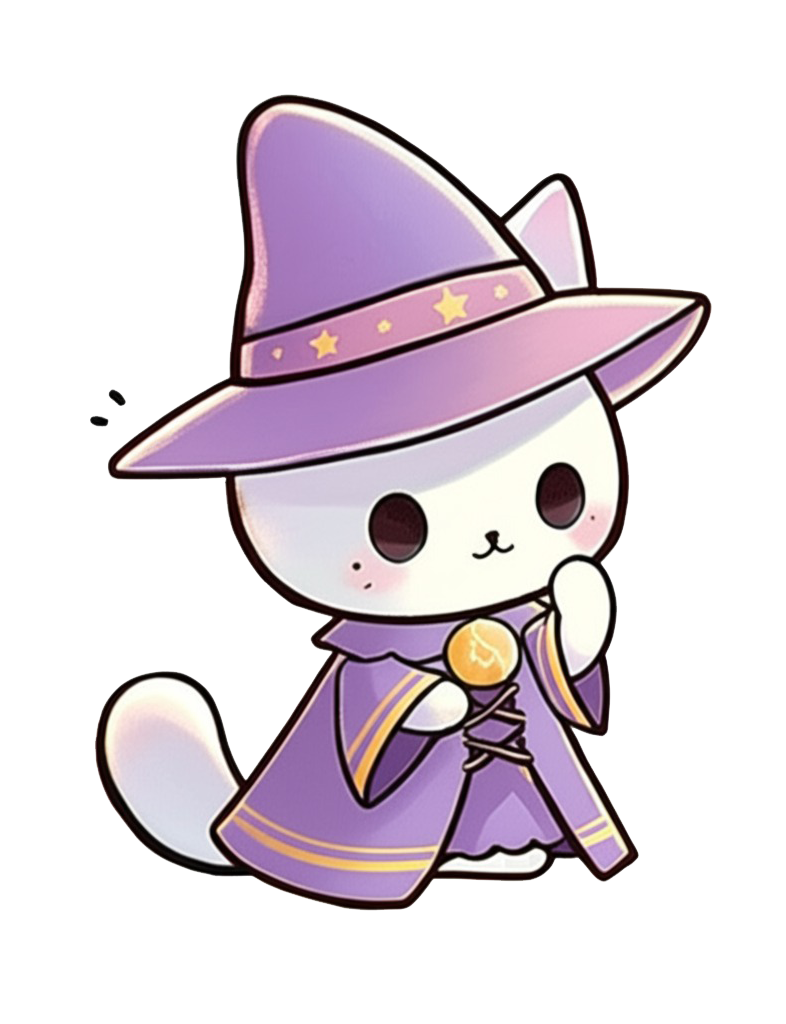
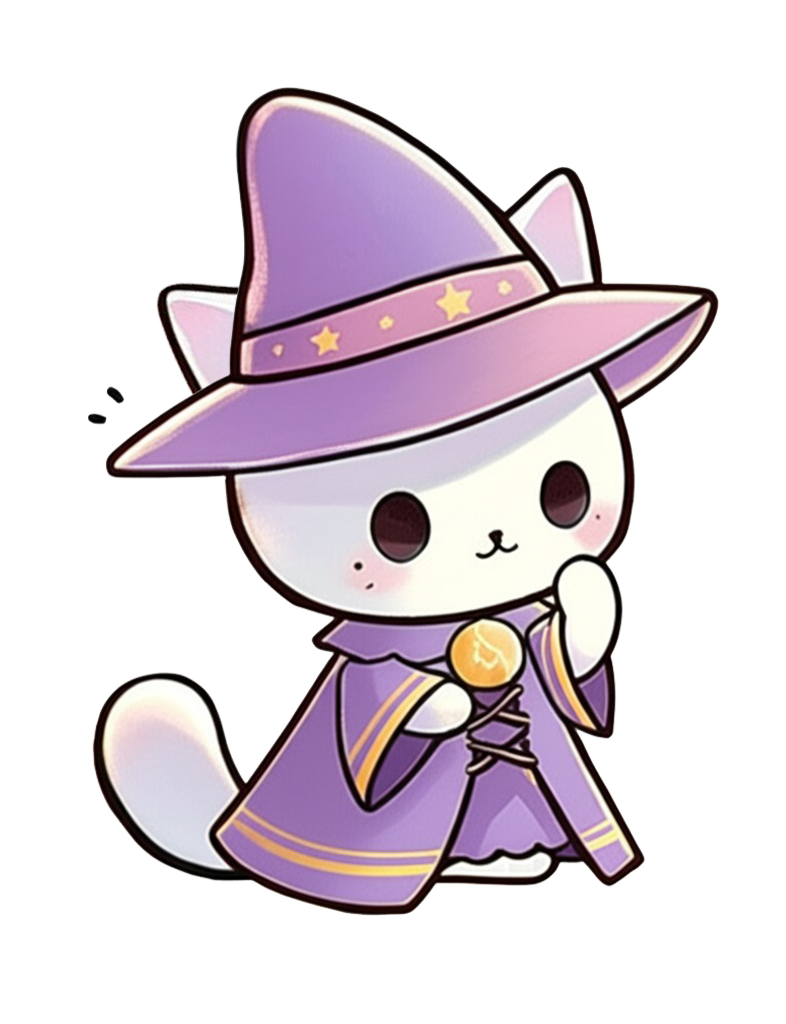
고양이 귀

diff --git a/app/(main)/talisman-gallery/page.tsx b/app/(main)/talisman-gallery/page.tsx
@@ -185,32 +185,14 @@ export default function TalismanGalleryPage() {
           transition={{ duration: 0.5 }}
         >
           {/* 설명 섹션 - 왼쪽 정렬로 변경 */}
-          <motion.section variants={itemVariants} className={`mb-6`}>
-            <div className="flex items-start">
-              <span
-                className={`text-xl mr-3 ${
-                  darkMode ? "text-purple-400" : "text-purple-600"
-                }`}
-              >
-                ✨
-              </span>
-              <div>
-                <h3
-                  className={`text-lg font-semibold ${
-                    darkMode ? "text-white" : "text-gray-800"
-                  } mb-2 text-left`}
-                >
-                  {t("talisman.collectionTitle")}
-                </h3>
-                <p
-                  className={`text-sm ${
-                    darkMode ? "text-gray-300" : "text-gray-600"
-                  } text-left`}
-                >
-                  {t("talisman.collectionDescription")}
-                </p>
-              </div>
-            </div>
+          <motion.section variants={itemVariants} className={`mb-2`}>
+            <p
+              className={`text-xs ${
+                darkMode ? "text-gray-300" : "text-gray-600"
+              } text-center`}
+            >
+              {t("talisman.collectionDescription")}
+            </p>
           </motion.section>
 
           {/* 본문 섹션 */}

diff --git a/app/(main)/profile/edit/page.tsx b/app/(main)/profile/edit/page.tsx
@@ -332,7 +332,7 @@ export default function ProfileEditPage() {
   }
 
   return (
-    <div className="min-h-screen bg-gradient-to-b from-[#EAE1F4] to-[#F9F9F9] pb-16">
+    <div className="min-h-screen pb-16">
       {/* 헤더 */}
       <PageHeader
         title={t("pageTitle")}
@@ -340,7 +340,7 @@ export default function ProfileEditPage() {
         className="bg-white shadow-md relative z-10"
       />
 
-      <div className="container mx-auto max-w-screen-md">
+      <div className="container mx-auto max-w-screen-md bg-white">
         <div className="p-4">
           {message && (
             <div className="mb-6 p-4 bg-green-50 text-green-800 rounded-lg border-l-4 border-green-500 flex items-center">

diff --git a/app/(main)/layout.tsx b/app/(main)/layout.tsx
@@ -70,7 +70,8 @@ export default function MainLayout({
 
   return (
     <TalismanProvider>
-      <div className="flex flex-col h-screen bg-gradient-to-b from-[#EAE1F4] to-[#F9F9F9] pb-16">
+      <div className="flex flex-col h-screen pb-16">
+        <div className="absolute top-0 left-0 h-50 w-full bg-gradient-to-b from-[#e6d0ff] to-[#F9F9F9] "></div>
         <main className="flex-grow relative z-1">{children}</main>
 
         {isProfileComplete && (

diff --git a/app/(main)/fortune/page.tsx b/app/(main)/fortune/page.tsx
@@ -613,7 +613,7 @@ export default function HomePage() {
           </p>
         </div>
         <motion.div
-          className="w-30 h-30 relative"
+          className=" relative"
           animate={{ y: [0, -5, 0] }}
           transition={{ duration: 3, repeat: Infinity, ease: "easeInOut" }}
         >

diff --git a/app/auth/signin/page.tsx b/app/auth/signin/page.tsx
@@ -43,7 +43,7 @@ export default function SignInPage() {
       {/* 배경 이미지 */}
       <div className="absolute inset-0 w-full h-full">
         <Image
-          src="/bg_dot.png"
+          src="/bg_ear_0.png"
           alt={t("bgAlt")}
           fill
           className="object-cover"
